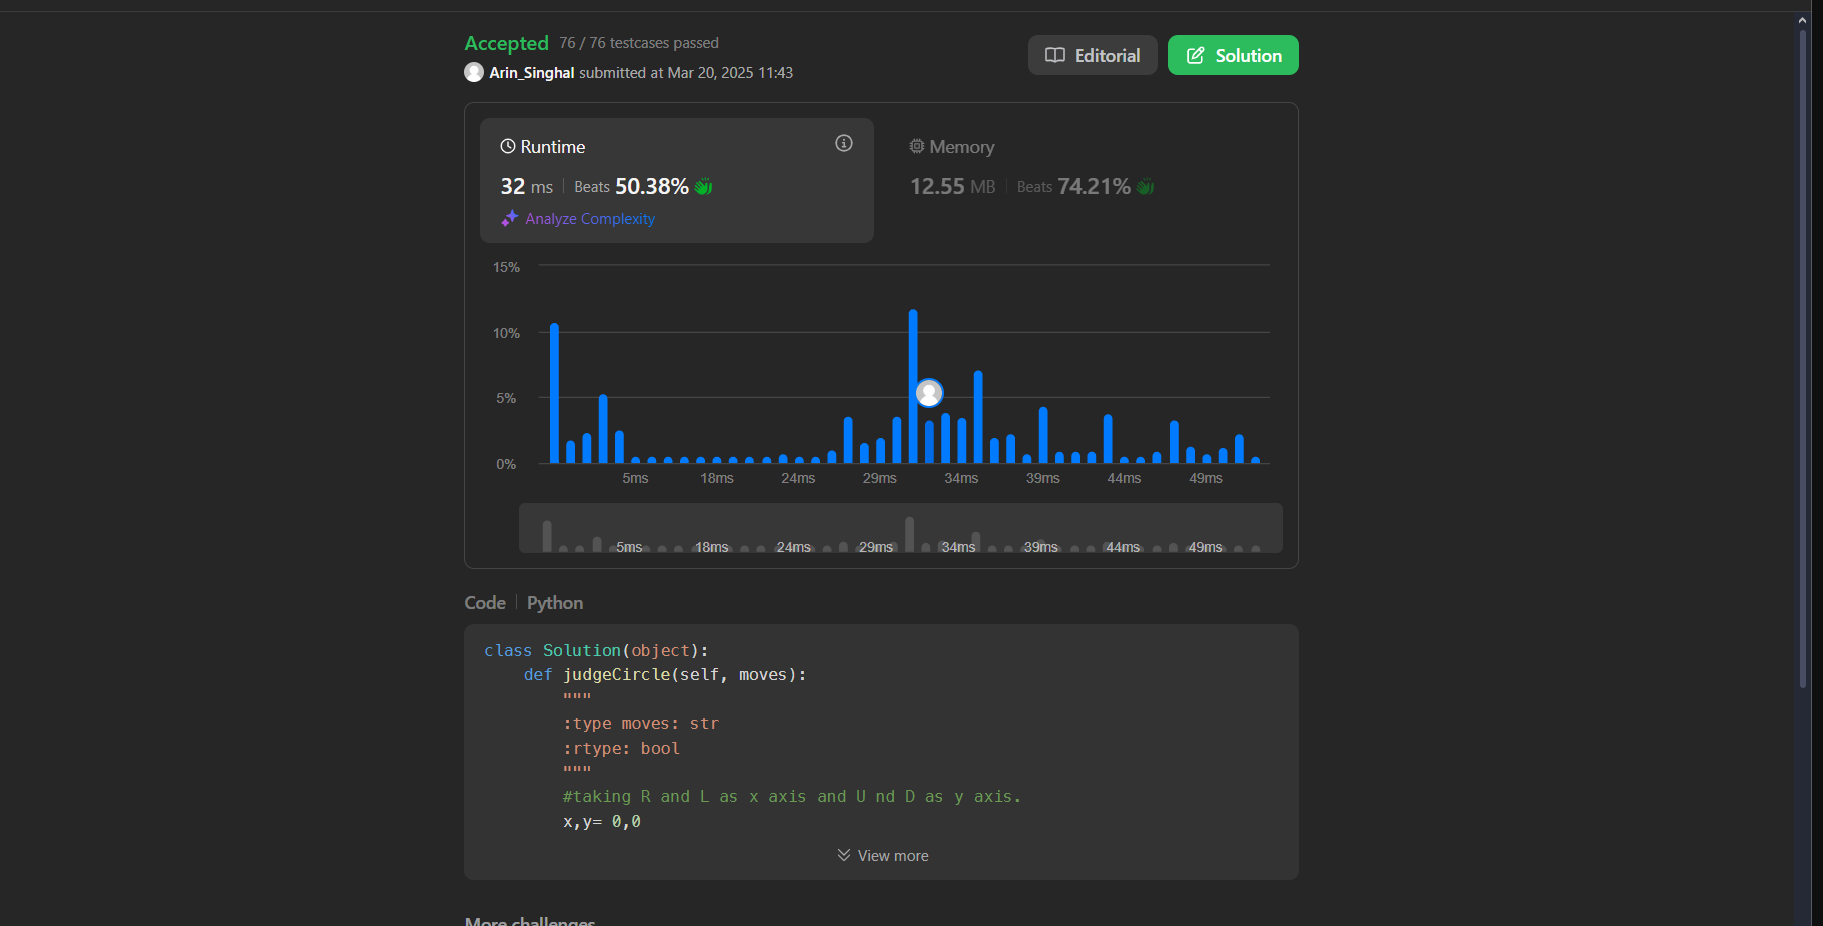
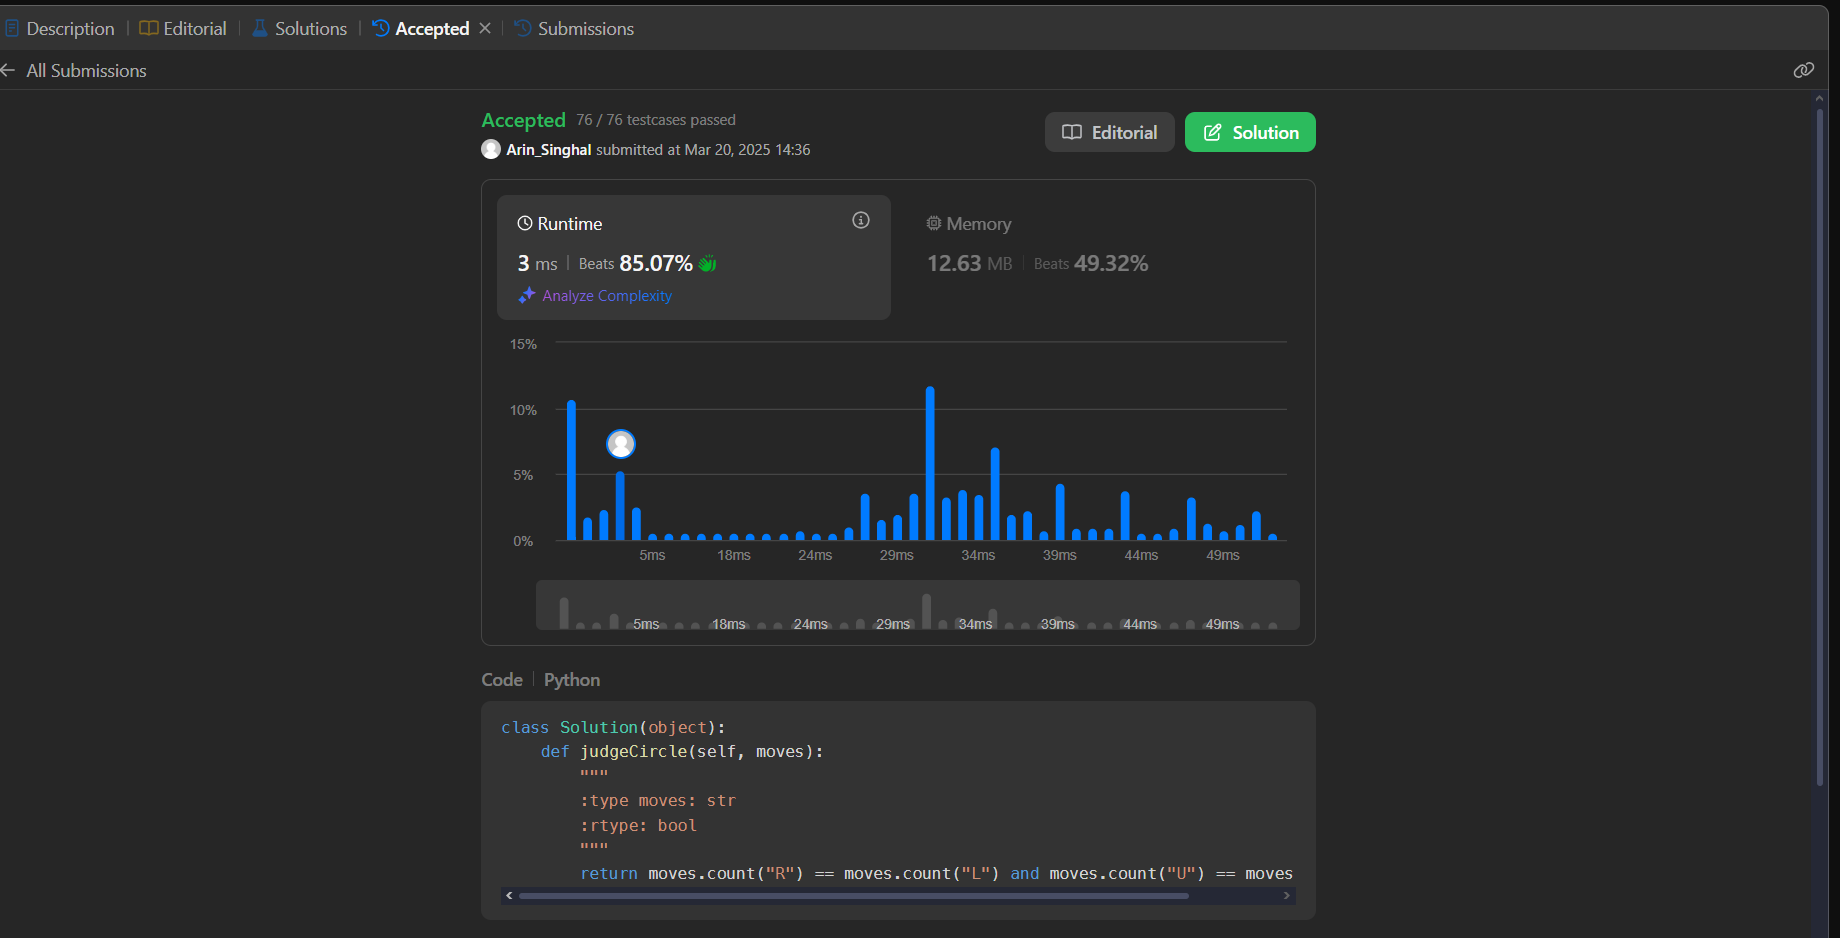
Added more optimised code for robot_origin

diff --git a/Task1A/Robot_origin.py b/Task1A/Robot_origin.py
@@ -4,15 +4,4 @@ class Solution(object):
         :type moves: str
         :rtype: bool
         """
-        #taking R and L as x axis and U nd D as y axis. 
-        x,y= 0,0
-        for i in moves:
-            if i == "R":
-                x+=1
-            elif i == "L":
-                x-=1
-            elif i =="U":
-                y+=1
-            else:
-                y-=1
-        return x == 0 and y==0
+        return moves.count("R") == moves.count("L") and moves.count("U") == moves.count("D")
